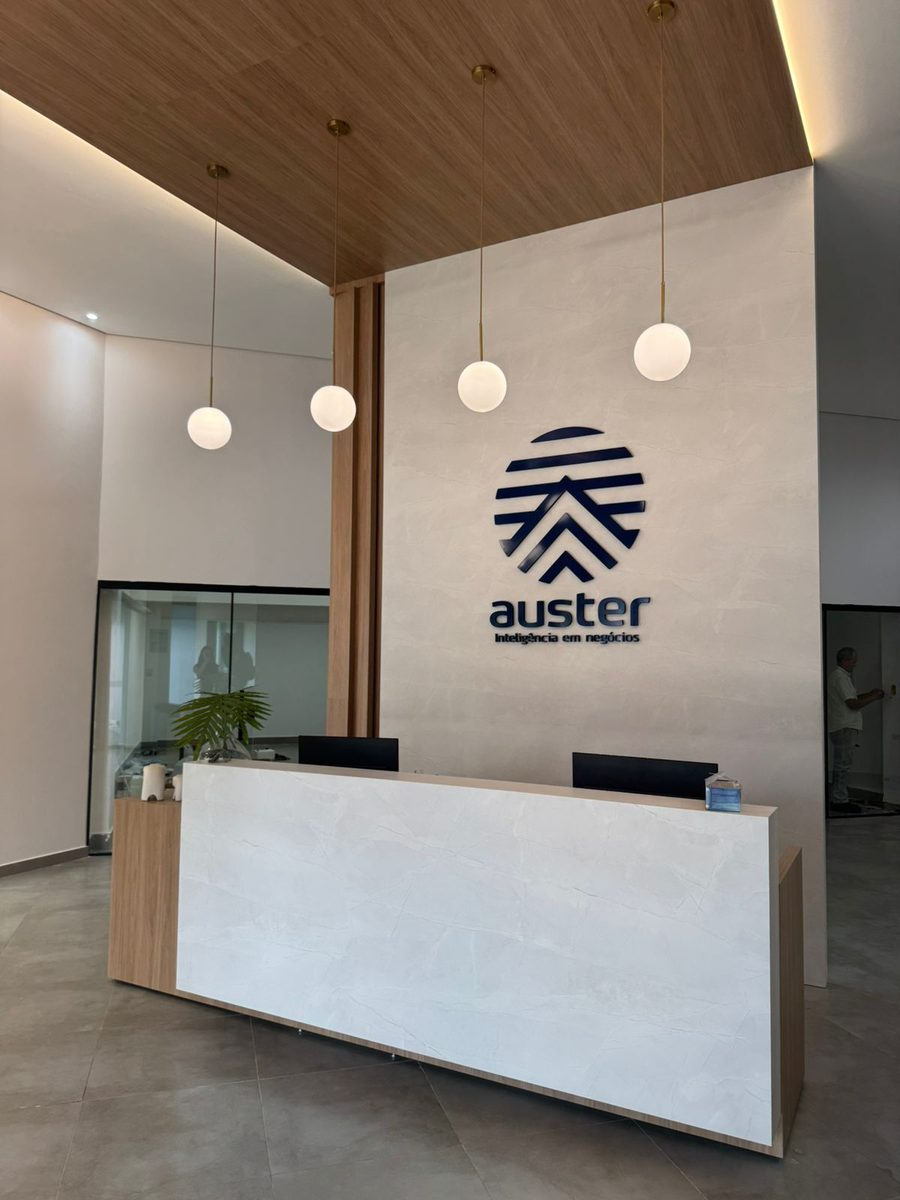
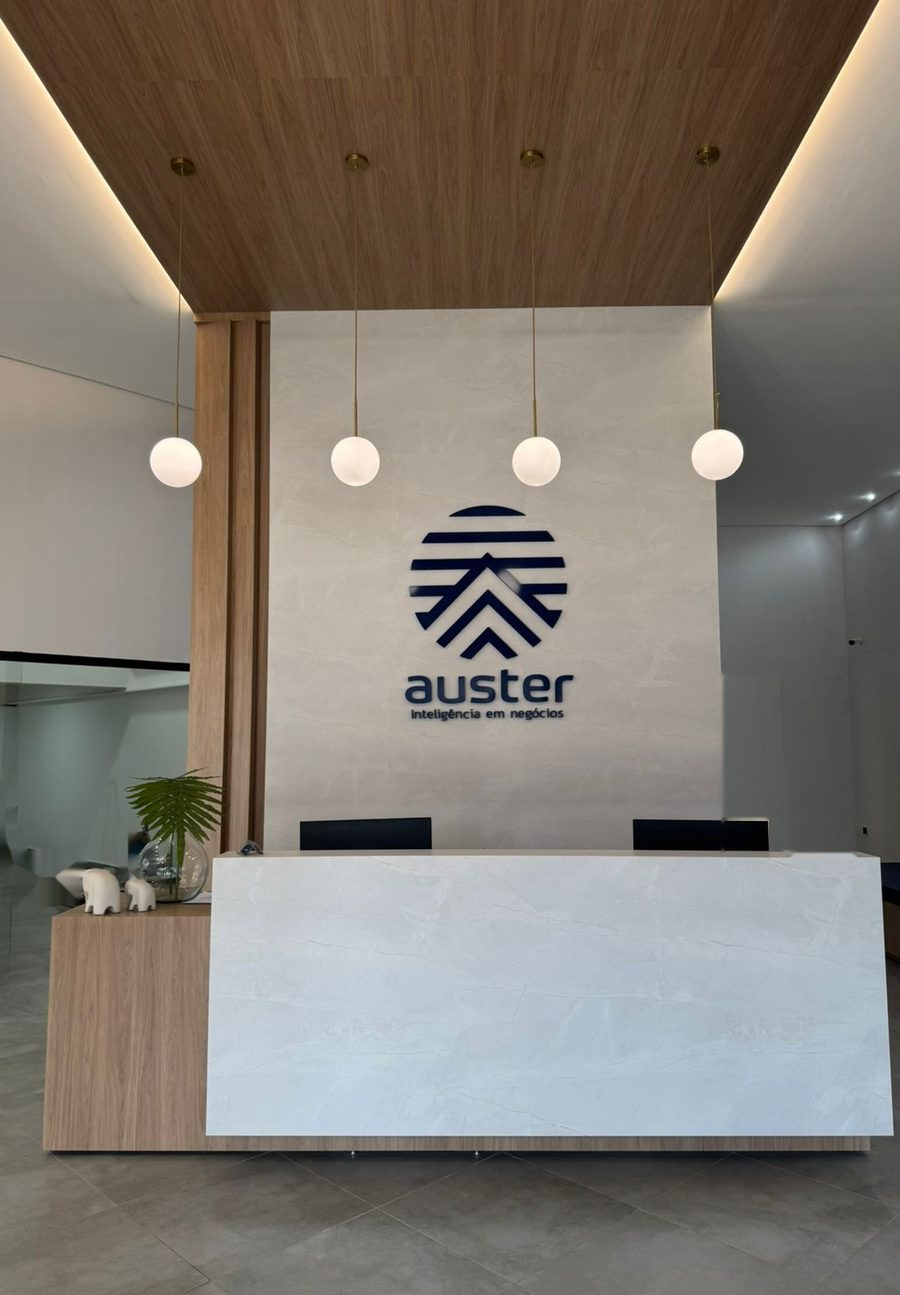
feat(fotos): fachada, recepcao e retrato, com escolha no painel
Chegaram seis fotos da casa. Cinco entraram, cada uma onde rende:

- `fachada.jpg` (deitada) e a CAPA do fundo "Foto" e abre "Onde acontece". O
  predio ja e azul-escuro: debaixo do veu ele nao perde nada, e e o que a
  pessoa procura na rua. A recepcao nao servia ai — ninguem reconhece um
  predio pela recepcao.
- `recepcao.jpg` e a frontal, que e simetrica, tem a marca no centro e nao tem
  ninguem na cena. Substitui a lateral na capa institucional; a lateral fica
  como `recepcao-lateral.jpg`.
- `palestrante.jpg` e `palestrante-casa.jpg`: o retrato. O arquivo diz o
  PAPEL, nao o nome — nome de pessoa nao entra em repositorio.

No painel, as fotos da casa viraram galeria de miniaturas ao lado do envio de
arquivo. Lista de nomes nao resolve: ninguem sabe qual e
"fachada-auster-lateral" sem ver. A escolha grava um caminho curto em vez de
uma imagem inteira dentro do banco; foto nova continua podendo ser enviada, e
a ultima acao vence.

Duas coisas que so aparecem quando se usa:
1. Escolher "sem imagem" gravava '' e o `||` do salvamento trocava o vazio
   pelo valor antigo — a limpeza nunca acontecia. Virou `??`.
2. A galeria filtra por molde de nome (`^palestrante`, `^(fachada|recepcao)`).
   Molde que nao casa com nada nao da erro: mostra fila VAZIA, e quem monta o
   evento conclui que nao ha foto da casa. Ha teste que compara os dois lados,
   provado trocando o molde.

`GET /api/backoffice/imagens` le a PASTA, nao uma lista escrita a mao — que
[…]

diff --git a/backoffice.html b/backoffice.html
@@ -112,6 +112,18 @@ dialog::backdrop{background:rgba(5,44,71,.45)}
   background:#f1f5f8;padding:3px 7px;border-radius:5px;word-break:break-all}
 .nota{font-size:var(--t-meta);color:var(--cinza);line-height:1.6;margin:14px 0 0;max-width:80ch}
 /* Campos do painel de eventos: rótulo visível acima, nunca dentro do campo. */
+/* Galeria das fotos da casa. Miniatura, e nao lista de nomes: ninguem sabe
+   qual e "fachada-auster-lateral" sem ver. */
+.galeria{display:flex;gap:10px;flex-wrap:wrap;margin:6px 0 4px}
+.miniatura{padding:0;border:2px solid var(--borda);border-radius:8px;overflow:hidden;
+  background:#fff;cursor:pointer;width:96px}
+.miniatura:hover{border-color:var(--claro)}
+.miniatura.escolhida{border-color:var(--escuro);box-shadow:0 0 0 2px rgba(5,44,71,.18)}
+.miniatura img{display:block;width:100%;height:64px;object-fit:cover}
+.miniatura .nome{display:block;font-size:10.5px;color:var(--cinza);padding:3px 4px;
+  white-space:nowrap;overflow:hidden;text-overflow:ellipsis}
+.miniatura.nenhuma{width:96px;height:88px;display:flex;align-items:center;
+  justify-content:center;font-size:11.5px;color:var(--cinza)}
 .campo-bo{margin-bottom:12px}
 .campo-bo label{display:block;font-size:var(--t-meta);color:var(--cinza);margin-bottom:4px;
   text-transform:uppercase;letter-spacing:.7px}
@@ -593,9 +605,31 @@ function campoSessao(s, i) {
   </tr>`;
 }
 
+let fotosDaCasa = [];
+
+/** Desenha a galeria de uma escolha. `alvo` e o mesmo nome usado em
+ *  `escolherImagem`; `atual` e o que ja esta gravado. */
+function galeria(alvo, atual, filtro) {
+  const itens = fotosDaCasa.filter(f => !filtro || filtro.test(f.arquivo));
+  if (!itens.length) return '';
+  const botao = (caminho, rotulo, miniatura) => `<button type="button" class="miniatura${
+    atual === caminho ? ' escolhida' : ''}${miniatura ? '' : ' nenhuma'}"
+    onclick="window.escolherImagem('${alvo}', '${caminho}')">${
+    miniatura ? `<img src="${esc(caminho)}" alt=""><span class="nome">${esc(rotulo)}</span>`
+              : rotulo}</button>`;
+  return `<div class="galeria" id="galeria-${alvo}">
+    ${itens.map(f => botao(f.caminho, f.rotulo, true)).join('')}
+    ${botao('', 'sem imagem', false)}
+  </div>`;
+}
+
 async function verEvento(id) {
   const { evento, contagem, inscricoes, base } =
     await pedir('/api/backoffice/eventos?id=' + id);
+  // A lista das fotos da casa e pedida uma vez por abertura de evento: e
+  // barata, e evita a tela oferecer uma foto que alguem ja tirou da pasta.
+  try { fotosDaCasa = (await pedir('/api/backoffice/imagens')).imagens || []; }
+  catch { fotosDaCasa = []; }
   const c = evento.conteudo || {};
   const p = c.palestrante || {};
   const endereco = `${base || ''}/eventos/${evento.apelido}`;
@@ -685,9 +719,14 @@ async function verEvento(id) {
           <input type="text" id="evRotulo" value="${esc(c.rotulo || '')}"
                  placeholder="Encontro gratuito · Uberlândia-MG"></div>
       </div>
-      <div class="campo-bo"><label for="evCapa">Imagem de fundo (só para o fundo “Foto”)</label>
+      <div class="campo-bo"><label>Imagem de fundo (só para o fundo “Foto”)</label>
+        ${galeria('capa', c.capa && c.capa.startsWith('/imagens/') ? c.capa : '',
+                  /^(fachada|recepcao)/)}
         <input type="file" id="evCapa" accept="image/*" onchange="window.carregarCapa(this)">
-        <span class="nota" id="capaEstado">${c.capa ? 'imagem carregada' : 'sem imagem'}</span></div>
+        <span class="nota" id="capaEstado">${c.capa
+          ? (c.capa.startsWith('/imagens/') ? 'usando a foto da casa: ' + esc(c.capa.slice(9))
+                                            : 'usando uma imagem enviada')
+          : 'sem imagem — escolha uma acima ou envie a sua'}</span></div>
 
       <h3 style="margin:22px 0 8px">Quem apresenta</h3>
       <div class="campos-bo">
@@ -698,9 +737,14 @@ async function verEvento(id) {
       </div>
       <div class="campo-bo"><label for="evPalBio">Apresentação</label>
         <textarea id="evPalBio">${esc(p.bio || '')}</textarea></div>
-      <div class="campo-bo"><label for="evPalFoto">Foto (opcional)</label>
+      <div class="campo-bo"><label>Foto (opcional)</label>
+        ${galeria('foto', p.foto && p.foto.startsWith('/imagens/') ? p.foto : '',
+                  /^palestrante/)}
         <input type="file" id="evPalFoto" accept="image/*" onchange="window.carregarFoto(this)">
-        <span class="nota" id="fotoEstado">${p.foto ? 'foto carregada' : 'sem foto'}</span></div>
+        <span class="nota" id="fotoEstado">${p.foto
+          ? (p.foto.startsWith('/imagens/') ? 'usando a foto da casa: ' + esc(p.foto.slice(9))
+                                            : 'usando uma foto enviada')
+          : 'sem foto — escolha uma acima ou envie a sua'}</span></div>
 
       <h3 style="margin:22px 0 8px">Encontros</h3>
       <p class="nota" style="margin:0 0 10px">A inscrição é por encontro. Deixe as vagas em
@@ -770,6 +814,29 @@ window.carregarFoto = async entrada => {
    monitor comum sem estourar o corpo que o servidor aceita — e a qualidade
    cai um pouco mais porque ela vai sob um véu escuro, onde ninguém procura
    detalhe. Acima de 200 KB o salvamento falharia; por isso o aviso. */
+/* Escolher uma foto da casa e o mesmo que enviar uma, do ponto de vista do
+   que fica gravado: muda so o valor — um caminho curto em vez de uma imagem
+   inteira dentro do banco. Por isso as duas coisas escrevem na MESMA variavel
+   e a ultima acao vence, que e o que a pessoa espera de um par de campos. */
+window.escolherImagem = (alvo, caminho) => {
+  if (alvo === 'capa') {
+    capaNova = caminho;
+    const e = document.getElementById('capaEstado');
+    if (e) e.textContent = caminho
+      ? 'foto da casa escolhida: ' + caminho.slice(9) + ' — salve para valer'
+      : 'sem imagem — o fundo “Foto” volta para a aurora';
+  } else {
+    fotoNova = caminho;
+    const e = document.getElementById('fotoEstado');
+    if (e) e.textContent = caminho
+      ? 'foto da casa escolhida: ' + caminho.slice(9) + ' — salve para valer'
+      : 'sem foto — o cartão fica só com o texto';
+  }
+  for (const b of document.querySelectorAll('#galeria-' + alvo + ' .miniatura')) {
+    b.classList.toggle('escolhida', b.getAttribute('onclick').includes(`'${caminho}')`));
+  }
+};
+
 let capaNova = null;
 window.carregarCapa = async entrada => {
   const arquivo = entrada.files && entrada.files[0];
@@ -832,11 +899,13 @@ window.salvarEvento = async () => {
     aposEncerrar: valor('evEncerrado').trim(),
     tema: valor('evTema'),
     rotulo: valor('evRotulo').trim(),
-    capa: capaNova || evento.conteudo.capa || '',
+    capa: capaNova ?? (evento.conteudo.capa || ''),
     palestrante: {
       nome: valor('evPalNome').trim(), cargo: valor('evPalCargo').trim(),
       bio: valor('evPalBio').trim(),
-      foto: fotoNova || (evento.conteudo.palestrante || {}).foto || '',
+      // `??`, e nao `||`: escolher "sem foto" grava '' — com `||`, o vazio
+      // caia para o valor antigo e a limpeza nao acontecia nunca.
+      foto: fotoNova ?? ((evento.conteudo.palestrante || {}).foto || ''),
     },
   };
   const ok = await gravarEvento({ titulo: valor('evTitulo').trim() || evento.titulo,

diff --git a/modelo_evento.html b/modelo_evento.html
@@ -243,11 +243,12 @@ function blocoOnde(e) {
     <div class="regua"></div>
     <div class="cartao lugar">
       <figure class="retrato" style="margin:0">
-        <img src="/imagens/recepcao.jpg" alt="Recepção da Auster, em Uberlândia" loading="lazy">
+        <img src="/imagens/fachada.jpg" alt="Fachada da Auster, em Uberlândia" loading="lazy">
       </figure>
       <div>
-        <p>Os encontros presenciais são na nossa casa, em Uberlândia. Esta é a
-        recepção — é por aqui que você entra, e é onde a equipe recebe quem chega.</p>
+        <p>Os encontros presenciais são na nossa casa, em Uberlândia. É este prédio
+        que você procura — a recepção fica logo na entrada, e é lá que a equipe
+        recebe quem chega.</p>
         <div class="endereco">${esc(local)}</div>
         <p class="nota" style="margin-top:8px">Chegue com alguns minutos de folga: dá
         tempo de um café antes de começar.</p>
